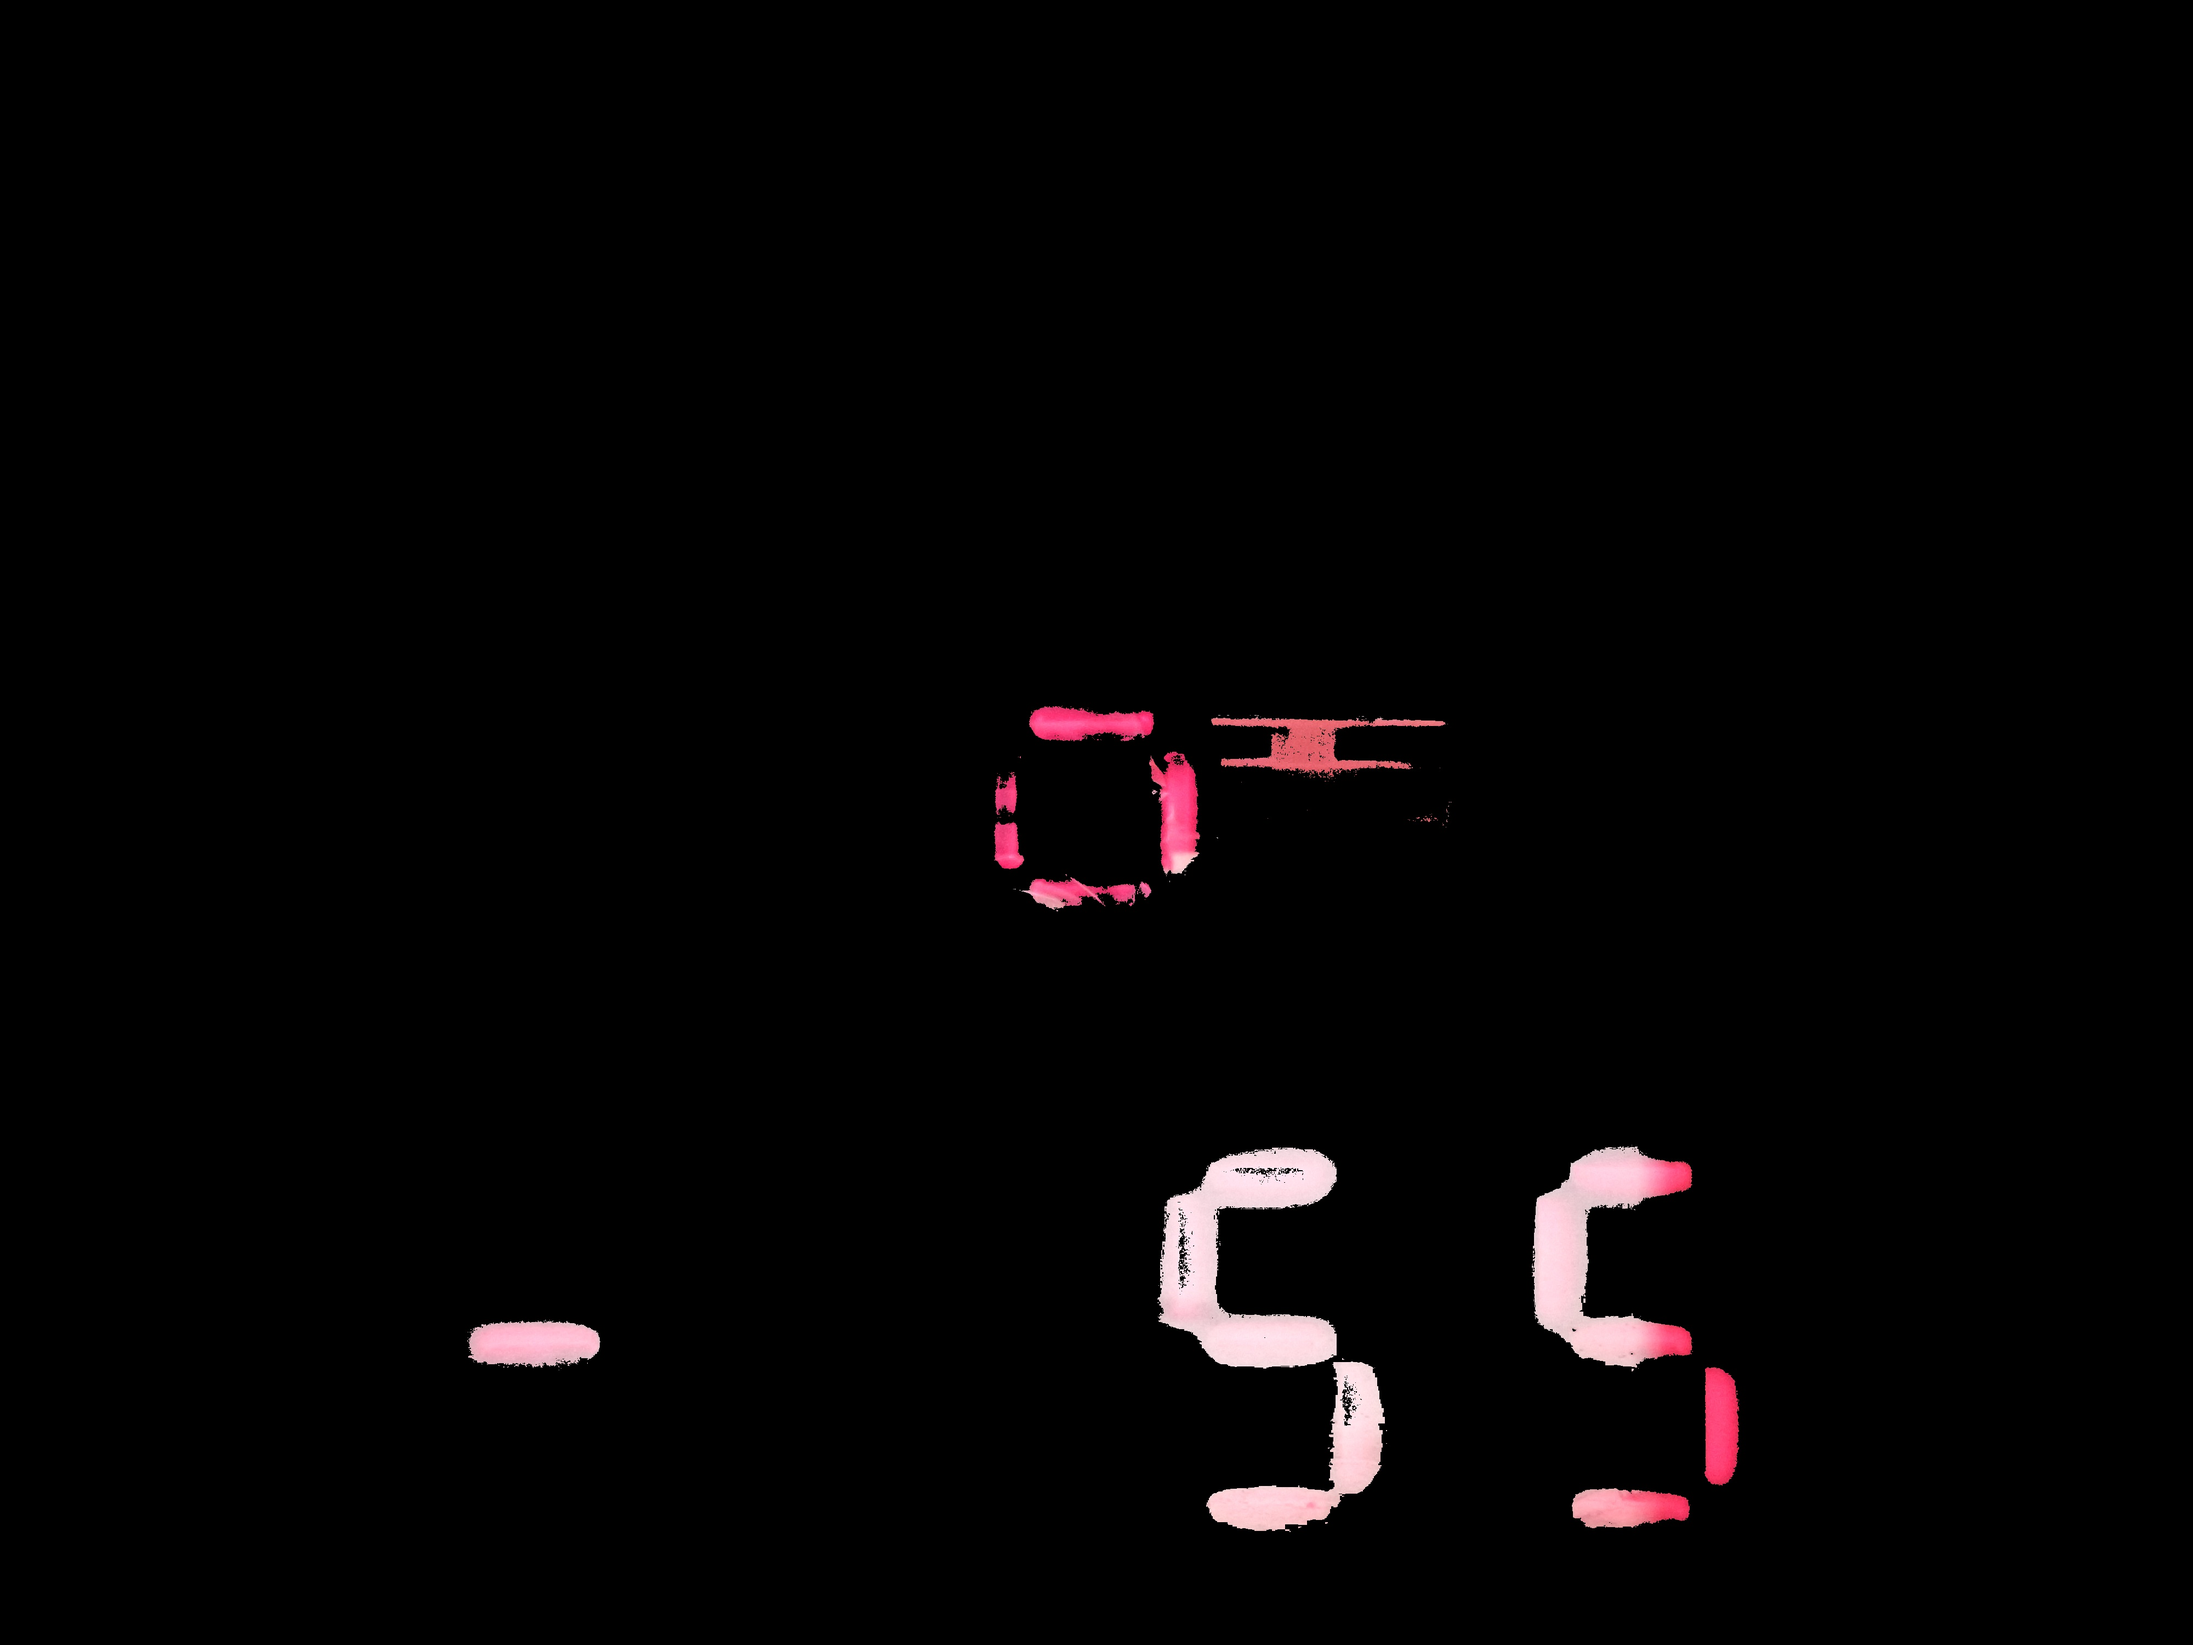
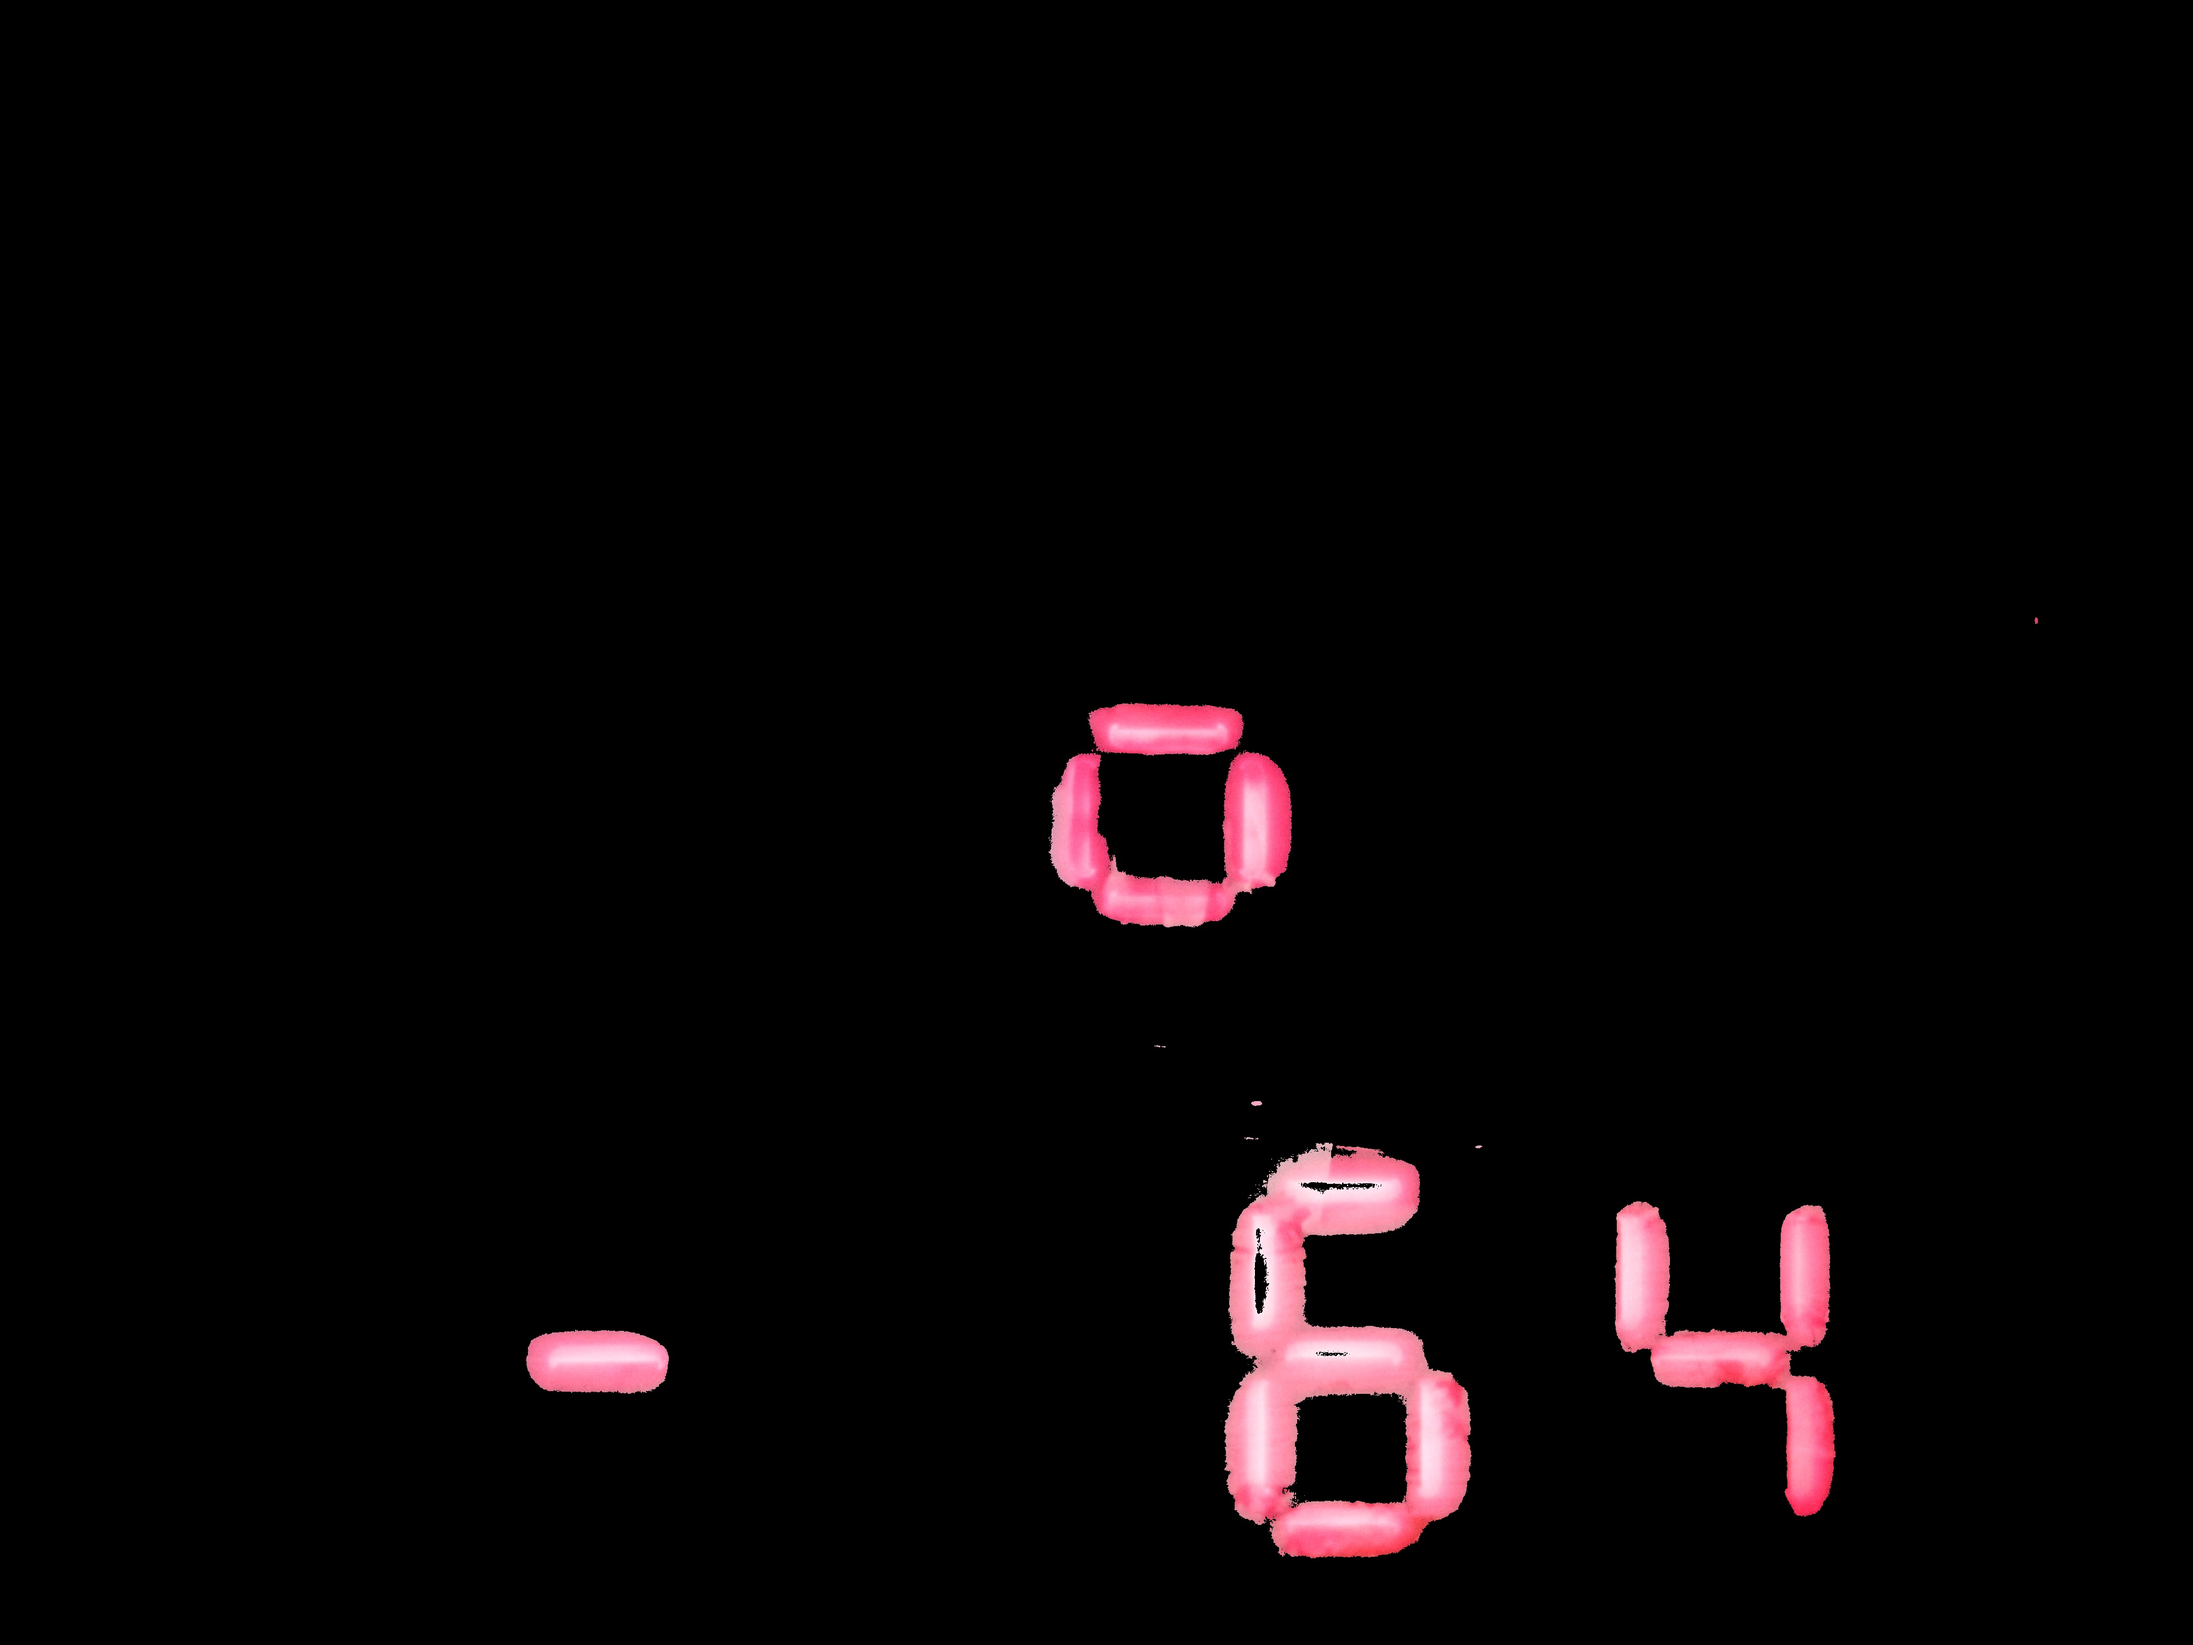
add: ocr using yolov5

diff --git a/yolov5/ocr_plate.py b/yolov5/ocr_plate.py
@@ -1,5 +1,6 @@
 import os
 import sys
+import yaml
 from pathlib import Path
 
 import torch
@@ -20,7 +21,7 @@ from utils.torch_utils import select_device, smart_inference_mode
 
 
 @smart_inference_mode()
-def detect_plate(
+def ocr_plate(
         weights=ROOT / 'yolov5s.pt',  # model path or triton URL
         source=ROOT / 'data/images',  # file/dir/URL/glob/screen/0(webcam)
         threshold = 0.9,
@@ -37,6 +38,11 @@ def detect_plate(
         vid_stride=1,  # video frame-rate stride
 ):
     source = str(source)
+
+    # Load config
+    config_path = "/home/vietnh/Documents/project/speed_detect/yolov5/data/license_plate_ocr.yaml"
+    with open(config_path, "r") as file:
+        config = yaml.safe_load(file)
 
     # Load model
     device = select_device(device)
@@ -68,67 +74,25 @@ def detect_plate(
             pred = non_max_suppression(pred, conf_thres, iou_thres, classes, agnostic_nms, max_det=max_det)
 
         # Process predictions
-        cropped_image, cropped_savename, min_distance, score = None, "cropped.jpg", 1e7, None
-        original_image = cv2.imread(source)
-        ho_center, wo_center = original_image.shape[0]/2, original_image.shape[1]/2
-        
+        plate = ""
         for det in pred:  # per image
-            im0 = im0s.copy()
             if len(det):
-                # Rescale boxes from img_size to im0 size
-                det[:, :4] = scale_boxes(im.shape[2:], det[:, :4], im0.shape).round()
-                # Write results
-                for *xyxy, conf, cls in reversed(det):
-                    if conf.cpu().numpy() < threshold:
+                det = det.cpu().tolist()
+                for box in det:
+                    score, label = box[4], int(box[5])
+                    label_name = config["names"][label]
+                    if label_name == "background":
                         continue
-                    crop, xyxy = crop_image(xyxy, im0, BGR=True)
-                    xyxy = xyxy.numpy()
-                    hcrop_center = (xyxy[0][0]+xyxy[0][2])/2
-                    wcrop_center = (xyxy[0][1]+xyxy[0][3])/2
+                    if score < threshold:
+                        continue
+                    plate += f"{label_name}"
 
-                    center_distance = compare_center((ho_center, wo_center), (hcrop_center, wcrop_center))
-                    if min_distance > center_distance:
-                        min_distance = center_distance
-                        cropped_image = crop
-                        score = conf
-
-        cv2.imwrite(cropped_savename, cropped_image)
-
-        return cropped_image, cropped_savename, score
-
-def crop_image(xyxy, im, gain=1.02, pad=10, square=False, BGR=False, save=True):
-    xyxy = torch.tensor(xyxy).view(-1, 4)
-    b = xyxy2xywh(xyxy)  # boxes
-    if square:
-        b[:, 2:] = b[:, 2:].max(1)[0].unsqueeze(1)  # attempt rectangle to square
-    b[:, 2:] = b[:, 2:] * gain + pad  # box wh * gain + pad
-    xyxy = xywh2xyxy(b).long()
-    clip_boxes(xyxy, im.shape)
-    crop = im[int(xyxy[0, 1]):int(xyxy[0, 3]), int(xyxy[0, 0]):int(xyxy[0, 2]), ::(1 if BGR else -1)]
-    # if save:
-    # #     file.parent.mkdir(parents=True, exist_ok=True)  # make directory
-    # #     f = str(increment_path(file).with_suffix('.jpg'))
-    # #     # cv2.imwrite(f, crop)  # save BGR, https://github.com/ultralytics/yolov5/issues/7007 chroma subsampling issue
-    #     Image.fromarray(crop[..., ::-1]).save("cropped.jpg", quality=95, subsampling=0)  # save RGB
-
-    return crop, xyxy
-
-def compare_center(ori_center, crop_center):
-    ho, wo = ori_center
-    hcrop, wcrop = crop_center
-
-    return math.sqrt((ho-hcrop)**2+(wo-wcrop)**2)
+        return plate
 
 
 if __name__ == '__main__':
-    # opt = parse_opt()
-    # main(opt)
-    weights_pathfile = "weights/license_plate_detection.pt"
     weights_ocr_pathfile = "weights/license_plate_ocr.pt"
-    test_image_pathfile = "test.JPG"
+    cropped_image_pathfile = "cropped.jpg"
 
-    crop, _, score = detect_plate(weights=weights_ocr_pathfile, source=test_image_pathfile)
-    
-    # cv2.imshow("crop", crop)
-    # cv2.waitKey(0)
-    # cv2.destroyAllWindows
+    plate = ocr_plate(weights=weights_ocr_pathfile, source=cropped_image_pathfile, threshold = 0.8)
+    print(plate)

diff --git a/test.py b/test.py
@@ -1,8 +1,29 @@
 import cv2
+import os
+import shutil
+
+from yolov5.detect import detect_plate
+from yolov5.detect_speed import process
+from yolov5.ocr_plate import ocr_plate
 
 
-test = "P1680238.JPG"
-test = cv2.imread(test)
-cv2.imshow("test", test)
-cv2.waitKey(0)
-cv2.destroyAllWindows()
+weights_plate_pathfile = "weights/license_plate_detection.pt"
+weights_plate_ocr_pathfile = "weights/license_plate_ocr.pt"
+weights_speed_pathfile = "weights/speed_detection.pt"
+
+val_folder = "/home/vietnh/Documents/project/speed_detect/datasets/type_1_license_plate/images/val"
+list_val_images = os.listdir(val_folder)
+
+count = 1
+for val_image in list_val_images:
+    image_pathfile = f"{val_folder}/{val_image}"
+    crop, cropped_savename, plate_detection_score = detect_plate(weights_plate_pathfile, image_pathfile)
+    plate_number = ocr_plate(weights_plate_ocr_pathfile, cropped_savename, threshold=0.8)
+    speed = process(weights_speed_pathfile, image_pathfile)
+
+    savename = f"{plate_number}_{speed}.jpg"
+    savedir = "images/test"
+    os.makedirs(savedir, exist_ok=True)
+    shutil.copy(image_pathfile, f"{savedir}/{savename}")
+    print(f"{count}/{len(list_val_images)}")
+    count += 1

diff --git a/main.py b/main.py
@@ -1,15 +1,14 @@
 from yolov5.detect import detect_plate
 from yolov5.detect_speed import process
-# from paddleocr.inference import ocr_plate
-from detectnet_image import ocr_plate
-
+from yolov5.ocr_plate import ocr_plate
 
 weights_plate_pathfile = "weights/license_plate_detection.pt"
+weights_plate_ocr_pathfile = "weights/license_plate_ocr.pt"
 weights_speed_pathfile = "weights/speed_detection.pt"
-image_pathfile = "P1680346.JPG"
+image_pathfile = "images/P1680346.JPG"
 
-crop, plate_detection_score = detect_plate(weights_plate_pathfile, image_pathfile)
-plate_number = ocr_plate(image=crop)
+crop, cropped_savename, plate_detection_score = detect_plate(weights_plate_pathfile, image_pathfile)
+plate_number = ocr_plate(weights_plate_ocr_pathfile, cropped_savename, threshold=0.8)
 speed = process(weights_speed_pathfile, image_pathfile)
 
 result = {

diff --git a/utils/loader.py b/utils/loader.py
@@ -1,0 +1,13 @@
+import yaml
+
+
+def load_yaml(config_path: str):
+    with open(config_path, "r") as file:
+        return yaml.safe_load(file)
+    
+
+if __name__ == "__main__":
+    config_path = "/home/vietnh/Documents/project/speed_detect/yolov5/data/license_plate_ocr.yaml"
+    config = load_yaml(config_path)
+    label = 10
+    print(config["names"][label])
